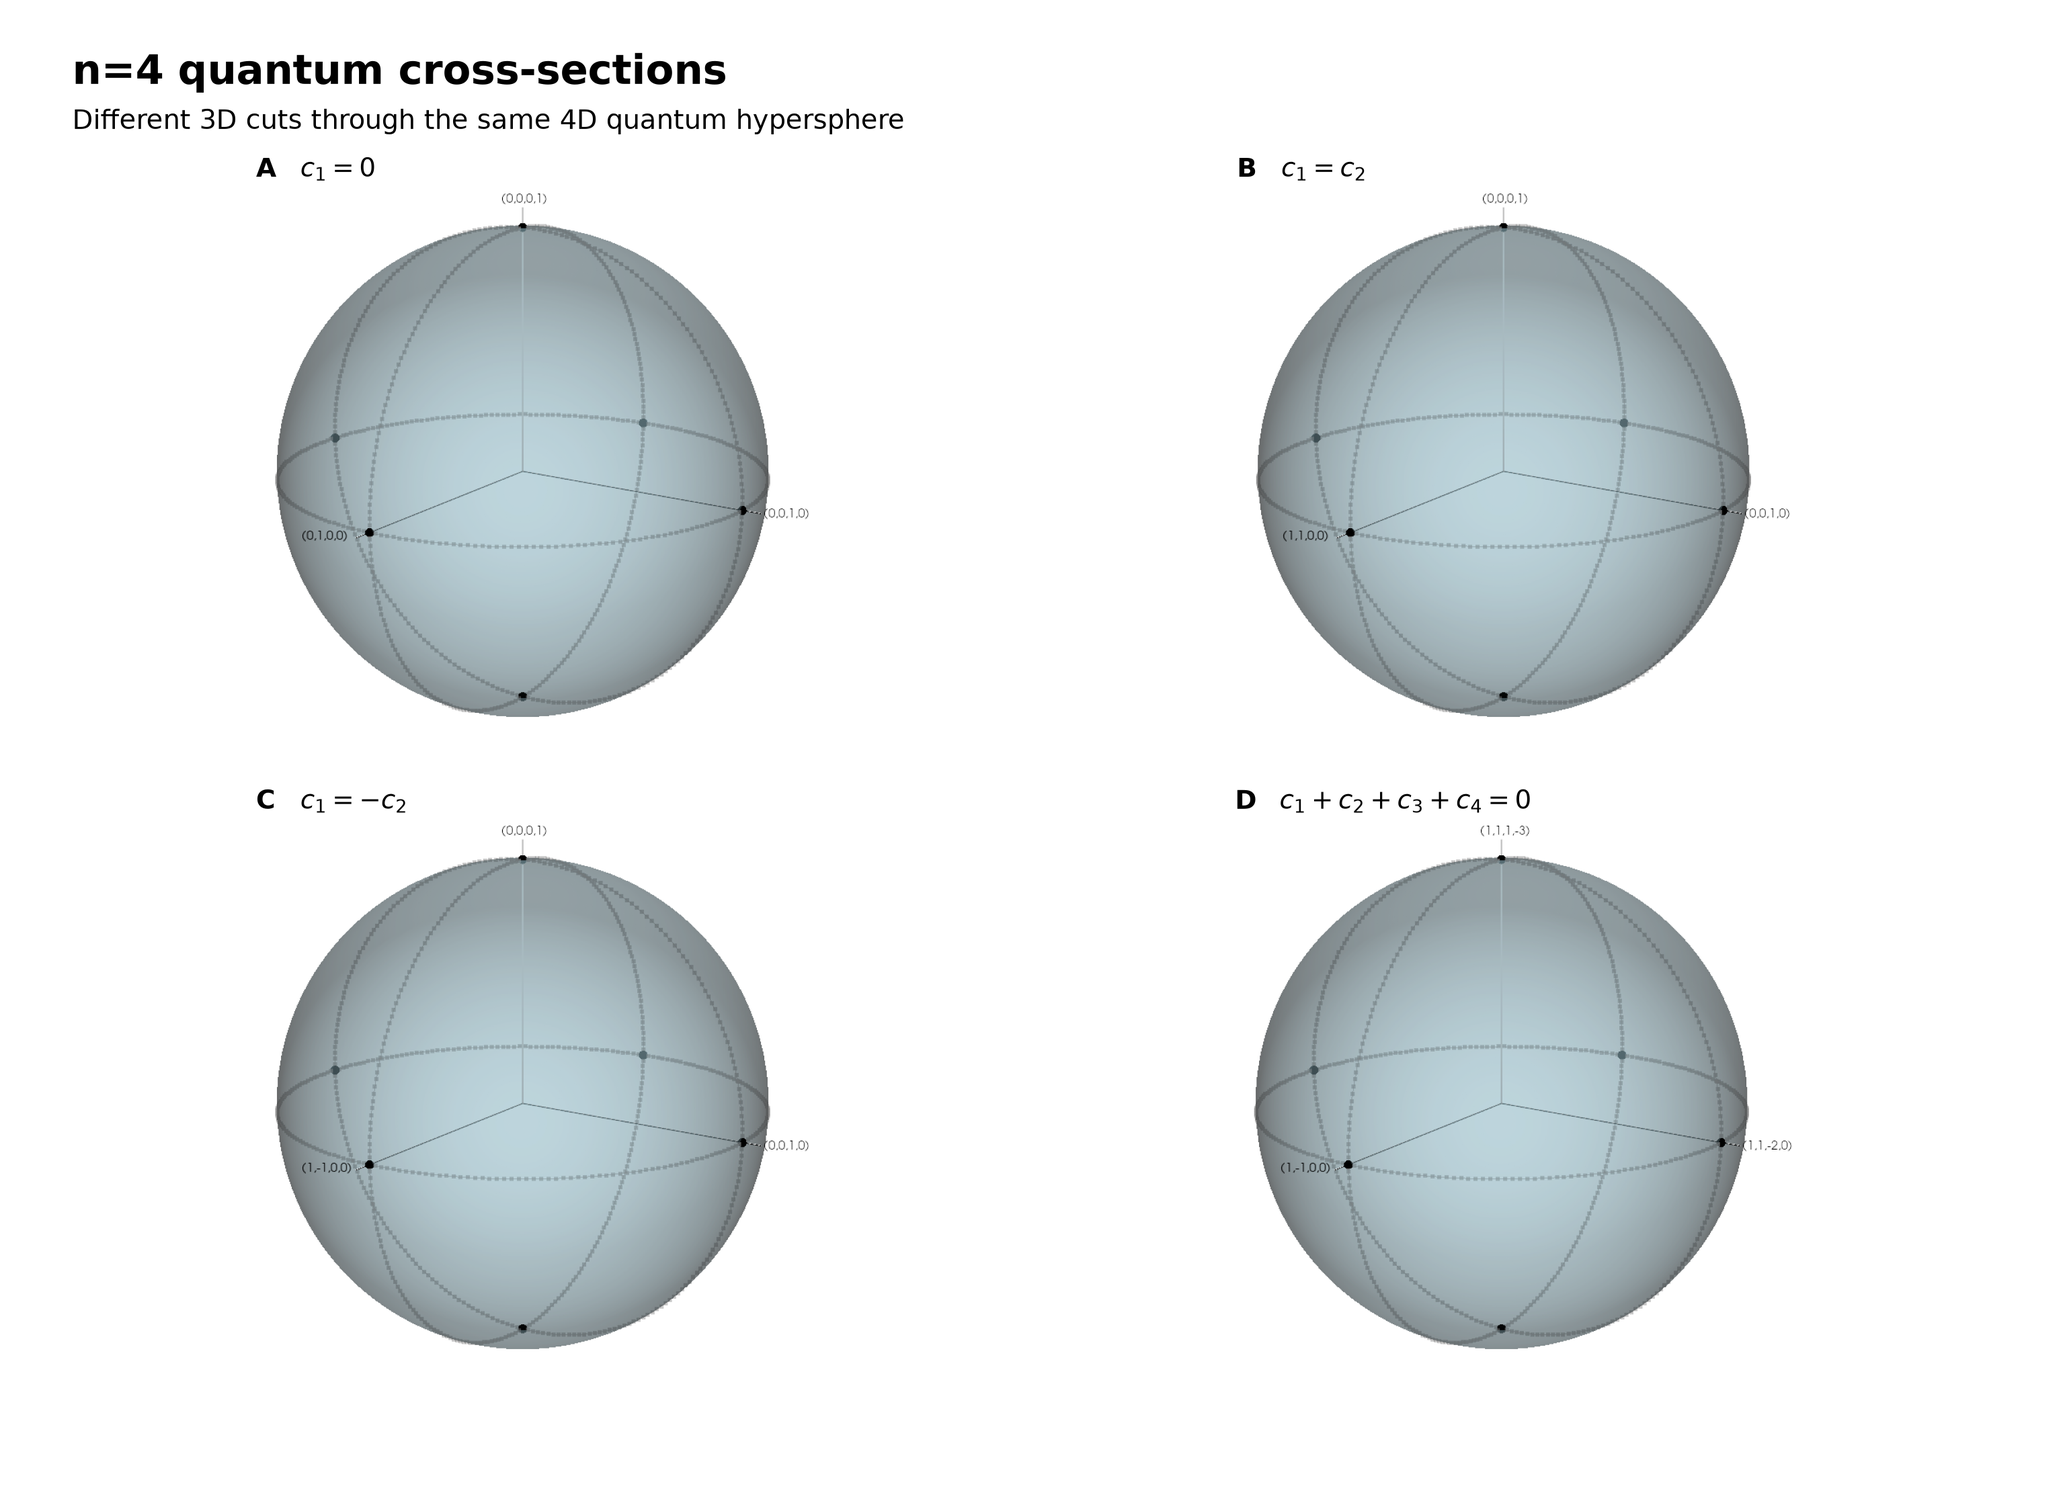
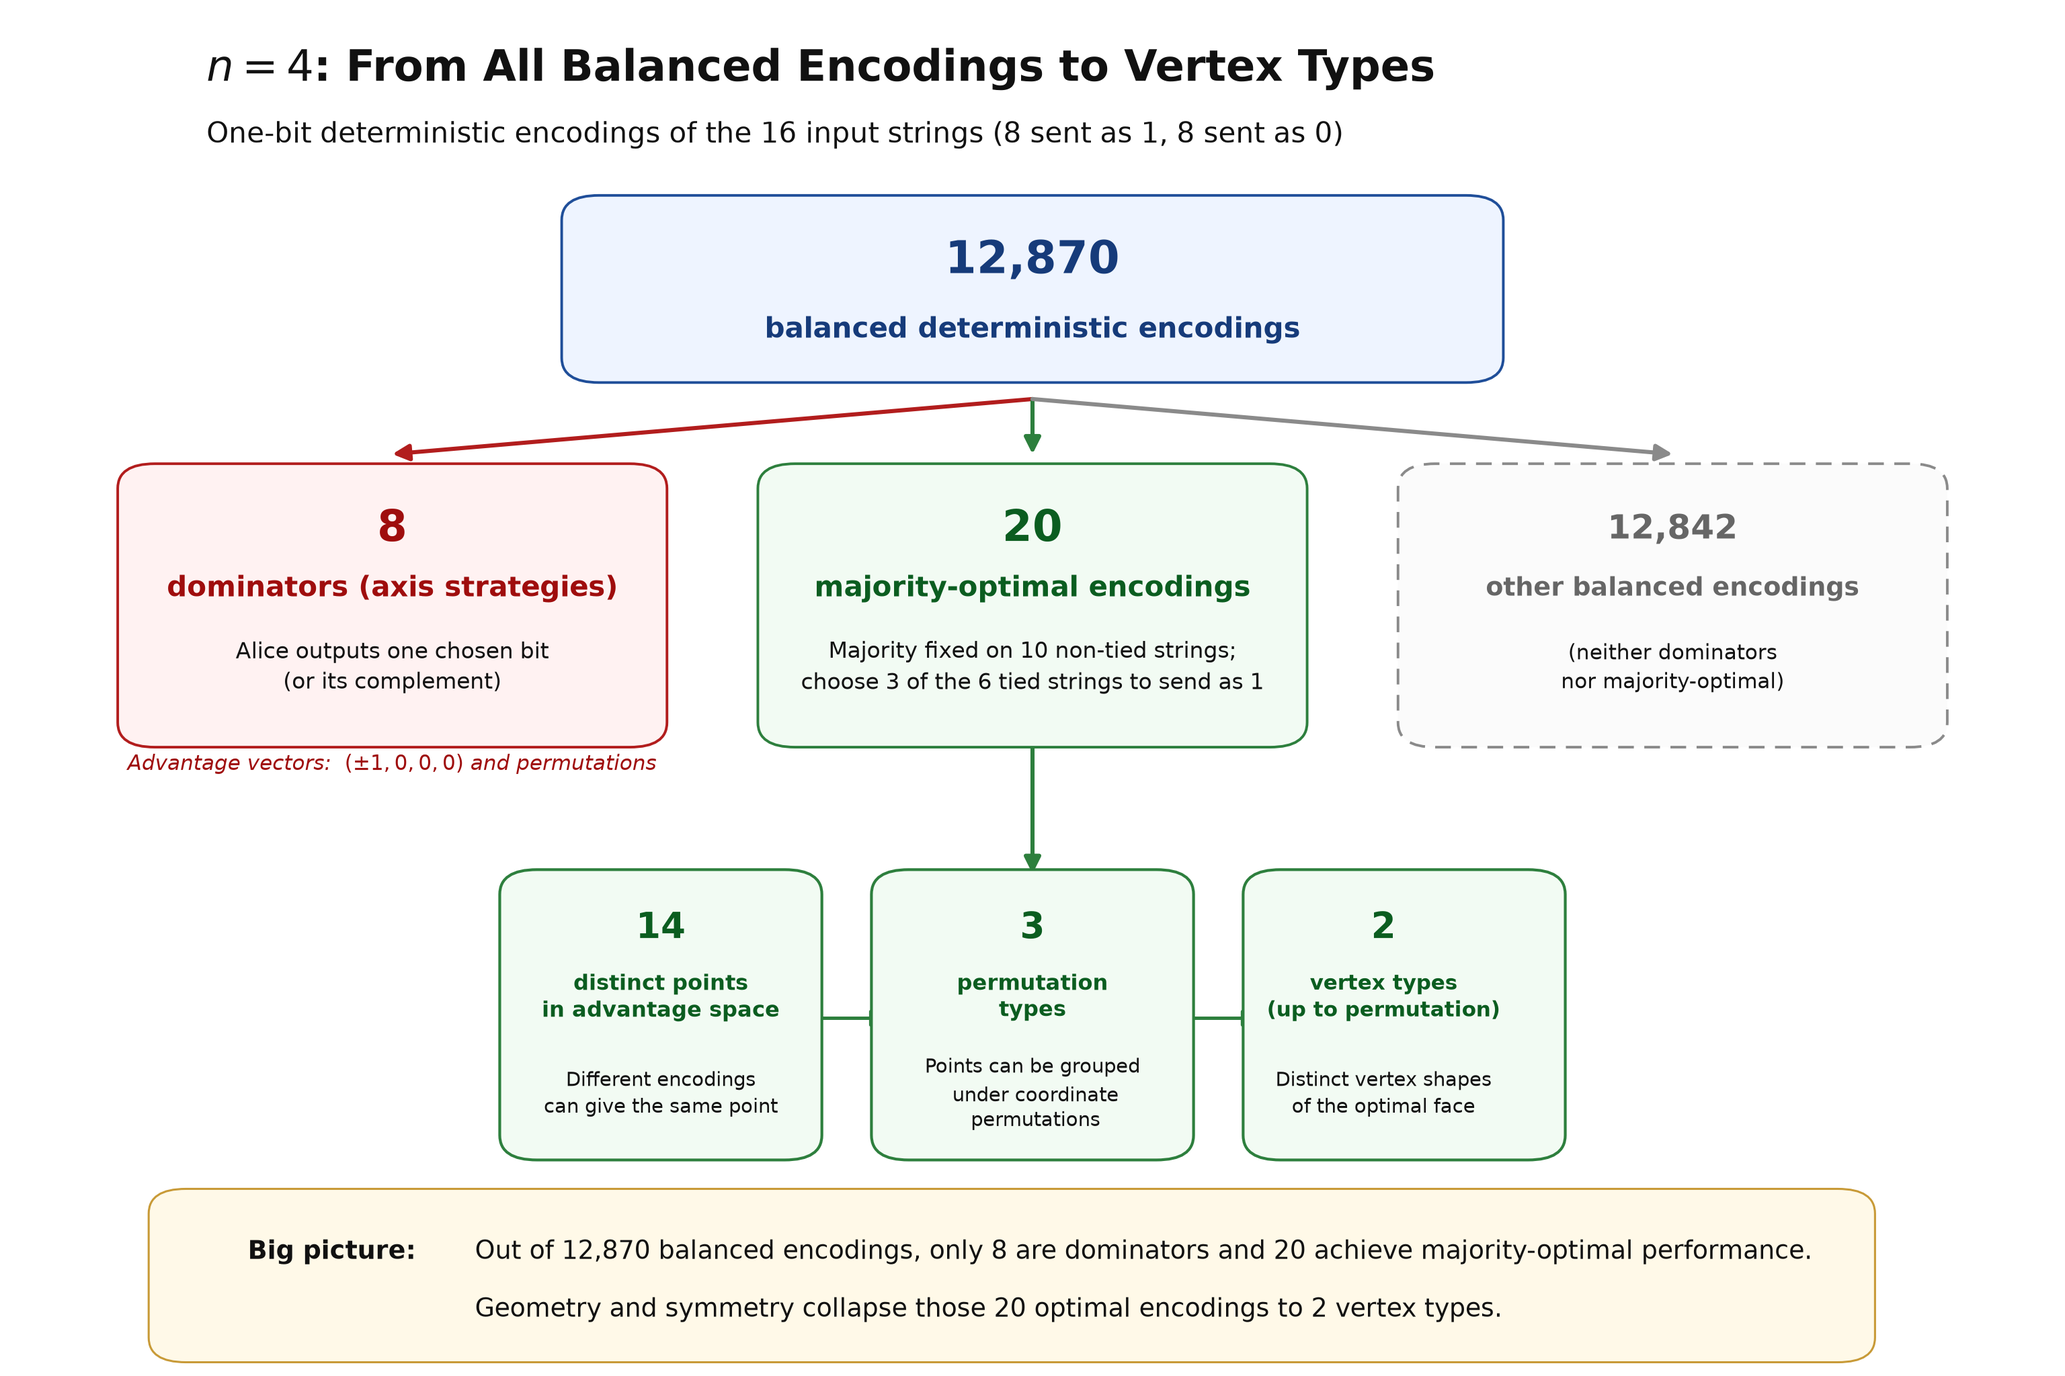
update

diff --git a/rac_balanced_encoding_flow_Figures_5_6.py b/rac_balanced_encoding_flow_Figures_5_6.py
@@ -1,11 +1,11 @@
 """
-Figures 6 and 7 — balanced deterministic encodings for n=4 and n=6
+Figures 5 and 6 — balanced deterministic encodings for n=4 and n=6
 ===================================================================
 
 Pure Matplotlib script. It creates:
 
-    Figure_6.png   n=4 flow
-    Figure_7.png   n=6 flow
+    Figure_5.png   n=4 flow
+    Figure_6.png   n=6 flow
 
 The layout follows the supplied flow-diagram concept:
 
@@ -58,8 +58,8 @@ from matplotlib.patches import FancyBboxPatch, FancyArrowPatch
 # ============================================================================
 
 HERE = Path(__file__).resolve().parent
-OUTPUT_4 = HERE / "Figure_6.png"
-OUTPUT_6 = HERE / "Figure_7.png"
+OUTPUT_4 = HERE / "Figure_5.png"
+OUTPUT_6 = HERE / "Figure_6.png"
 
 DPI = 200
 FIGSIZE = (15.36, 10.24)
@@ -445,7 +445,7 @@ def draw_compression_chain(ax, n, d):
     )
     ax.text(
         0.50, 0.205,
-        "Points grouped under\ncoordinate permutations",
+        "Points can be grouped\n under coordinate\n permutations",
         transform=ax.transAxes,
         ha="center", va="center",
         fontsize=10.6,
@@ -563,10 +563,10 @@ def draw_big_picture(ax, n, d):
         line1 = (
             rf"Out of $\sim 1.83\times10^{{18}}$ balanced encodings, "
             f"only {d['dominators']} are dominators and "
-            f"{fmt_int(d['majority_optimal'])} achieve majority-optimal performance."
+            f"{fmt_int(d['majority_optimal'])} achieve majority-optimal"
         )
         line2 = (
-            f"Geometry and symmetry collapse those optimal encodings to "
+            f"performance. Geometry and symmetry collapse those optimal encodings to "
             f"{d['vertex_types']} vertex types."
         )
 
@@ -588,10 +588,10 @@ def draw_big_picture(ax, n, d):
         color=BLACK,
     )
     ax.text(
-        0.49, 0.048,
+        0.23, 0.048,
         line2,
         transform=ax.transAxes,
-        ha="center", va="center",
+        ha="left", va="center",
         fontsize=BOTTOM_TEXT_SIZE,
         color=BLACK,
     )
@@ -611,7 +611,7 @@ def draw_flow(n, output):
     # Title
     ax.text(
         0.1, 0.965,
-        rf"$n={n}$: From All Balanced Encodings to the Key Families",
+        rf"$n={n}$: From All Balanced Encodings to Vertex Types",
         transform=ax.transAxes,
         ha="left", va="top",
         fontsize=TITLE_SIZE,

diff --git a/n4_rac_publication_figure_Fig3.py b/n4_rac_publication_figure_Fig3.py
@@ -509,9 +509,7 @@ def compose_figure(poly_image, axis_image, axes, normal, offset):
     normal_text = "(" + ", ".join(f"{x:g}" for x in SLICE_NORMAL) + ")"
     fig.text(
         SUBTITLE_POSITION[0], SUBTITLE_POSITION[1],
-        rf"A 3D cut through the 4D classical advantage-space polytope, "
-        rf"normal = {normal_text}, ",
-        #rf"offset = {SLICE_OFFSET:g}   ({slice_label(normal, offset)})",
+        rf"A 3D cut through the 4D classical advantage-space polytope: c₁ = 0",
         ha="left", va="top", fontsize=16.5,
     )
 

diff --git a/n3_rac_cross_sections_2panel_Figure_2.py b/n3_rac_cross_sections_2panel_Figure_2.py
@@ -468,7 +468,7 @@ def draw_panel(ax, letter, raw_normal, raw_offset):
     )
 
     # Small line listing the actual oriented basis.
-    basis_text = "In plane directions: " + "   ·   ".join(format_direction(v) for v in axis_vectors)
+    basis_text = "In-plane directions: " + "   ·   ".join(format_direction(v) for v in axis_vectors)
     ax.text(
         0.5, -0.02,
         basis_text,

diff --git a/n4_rac_publication_2x2_classical_and_quantum_Fig_4_7.py b/n4_rac_publication_2x2_classical_and_quantum_Fig_4_7.py
@@ -15,7 +15,7 @@ from scipy.spatial import ConvexHull
 
 BASE_SCRIPT = Path(__file__).with_name("n4_rac_cross_section_axis_inset_planar_edges.py")
 OUTPUT = Path(__file__).with_name("Figure_4.png")
-QUANTUM_OUTPUT = Path(__file__).with_name("Figure_5.png")
+QUANTUM_OUTPUT = Path(__file__).with_name("Figure_7.png")
 
 # Four slices to compare. Change these freely.
 SLICES = [

diff --git a/TheShapeofWhatYouCanKnow.md b/TheShapeofWhatYouCanKnow.md
@@ -2,7 +2,7 @@
 
 *A guessing game, an explosion of classical strategies, and the surprisingly simple shape that quantum mechanics leaves behind.*
 
-## (Q)SeaBattle Revisited
+## QSeaBattle Revisited
 <!-- key Goal: In the minimum possible space, make the game understandable to a new reader and remind returning readers of the setup. End by introducing the advantage coordinates cᵢ = 2Pᵢ − 1 and asking what all possible strategies look like when plotted in these coordinates.-->
 Alice and Bob are playing a peculiar version of SeaBattle. Alice sees a board containing *n* bits, while Bob is asked about one randomly chosen position. His job is simple: guess whether the bit at that position is 0 or 1. There is just one catch: Alice may send Bob one bit, and Bob does not get to tell her which position he will be asked about.
 
@@ -17,7 +17,7 @@ For two possible questions, that point lives on a page. For three, it lives in o
 
 Let us start with *n* = 3, where we can still see the whole strategy space. A strategy is now a point (*c₁*, *c₂*, *c₃*) in ordinary three-dimensional space. An axis strategy, for example, can put all the advantage on one question, giving a point such as (1, 0, 0). A majority strategy spreads the advantage equally over all three, giving (½, ½, ½). Flipping answers or exchanging the three indices generates the corresponding points in the other directions.
 
-These points are the extreme deterministic strategies, but Alice and Bob are not restricted to choosing just one of them. They can agree beforehand to randomly alternate between two strategies. If they use each half of the time, their resulting advantages are simply the average of the two points. Vary the mixing probability and every point on the line between them becomes reachable; mix more strategies and the regions between them fill in as well. The set of all classical strategies is therefore convex: its outer boundary is the many-faced object shown in Figure 1, a polytope.
+These points are the extreme deterministic strategies, but Alice and Bob are not restricted to choosing just one of them. They can agree beforehand to randomly alternate between two strategies. If they use each half of the time, their resulting advantages are simply the average of the two points. Vary the mixing probability and every point on the line between them becomes reachable; mix more strategies and the regions between them fill in as well. The set of all classical strategies is therefore convex: its outer boundary is the many-faced object we encountered in [a previous post](https://medium.com/@r.hendriks/f85c58257192), shown in Figure 1: a polytope known as a rhombic dodecahedron. 
 
 ![alt text](Figure_1.png)
 > *Figure 1: The classical strategy space for three possible questions. Each point represents the advantage Bob can achieve for the three possible indices. Despite the many deterministic strategies, the boundary has just two types of vertices: axis strategies (crimson) and majority strategies (dark orange).*
@@ -59,7 +59,7 @@ There is order hiding inside this complexity. Permuting the four indices does no
 And four dimensions are only the beginning. The real surprise comes when we ask how many different classical strategies are hiding behind these shapes — and what happens when *n* grows from 4 to 6.
 
 ## Where the Complexity Comes From
-<!-- Key goal: Explain that the complexity is generated by ties. For odd n there are no majority ties and the optimal structure is clean; for even n, many different tie choices remain equally optimal. Show the explosion from n = 4 to n = 6, then pose the counting/classification problem. -->
+<!-- Key goal: Explain that the complexity is generated by ties. For odd n there are no majority ties and the optimal structure is clean; for even *n*, many different tie choices remain equally optimal. Show the explosion from n = 4 to n = 6, then pose the counting/classification problem. -->
 
 Where do all those faces and vertices come from? The culprit is surprisingly simple: ties. When *n* is **odd**, a majority vote can never end in a draw. For every input, one value occurs more often than the other, so the corresponding majority encoding is fixed. This gives the optimal classical strategies their particularly clean structure, whose general form is known [2].
 
@@ -67,38 +67,38 @@ For **even** *n*, something different happens. Some inputs contain exactly as ma
 
 For *n* = 4 there are 16 possible input strings, six of which are tied. A balanced encoding sends eight strings as 0 and eight as 1, giving 12,870 possible balanced deterministic encodings. Among them are the eight simple axis strategies and 20 majority-optimal encodings. Those 20 optimal encodings do not all produce different geometries: they collapse to 14 distinct points in advantage space, then to just three classes under permutation symmetry, and finally to two vertex types.
 
-![alt text](Figure_6.png)
-> *Figure 5: For n = 4, 12,870 balanced deterministic encodings collapse to just two vertex types. The reduction happens in three steps: 1) different encodings can produce the same point in advantage space; 2) permutation symmetry over the indices makes some of the remaining points equivalent; and 3) points that are not vertices of the polytope can be discarded.*
+![alt text](Figure_5.png)
+> *Figure 5: For n = 4, there are 12,870 balanced deterministic encodings. Of these, 20 are majority-optimal. Those 20 collapse to 14 distinct points in advantage space (because different encodings can produce the same point), three classes under permutation symmetry, and finally two vertex types after discarding points that are not vertices.*
 > Alt text: A flow diagram for n = 4 deterministic strategies. It shows the reduction from 12,870 balanced encodings through majority-optimal encodings and distinct advantage-space points to progressively fewer symmetry classes. The final result is 2 vertex types.
 
 At *n* = 6, the same mechanism explodes. There are now 64 possible input strings and 20 ties. The number of balanced encodings exceeds 1.8 × 10¹⁸, while choosing how to resolve just the ties already produces 184,756 majority-optimal encodings. Yet geometry and symmetry compress that enormous collection to 4,733 distinct points in advantage space, 41 classes under permutation, and ultimately six vertex types.
 
-![alt text](Figure_7.png)
+![alt text](Figure_6.png)
 > *Figure 6: The classical complexity grows fast. For n = 6, the number of balanced deterministic encodings exceeds 1.8 × 10¹⁸, with 184,756 majority-optimal encodings alone. The same geometric and symmetry reductions eventually leave just six vertex types — but finding and classifying them is already a substantial combinatorial problem.*
 > Alt text: A flow diagram for n = 6 deterministic strategies. It shows the reduction from more than 1.8 × 10¹⁸ balanced encodings through 184,756 majority-optimal encodings and distinct advantage-space points to progressively fewer symmetry classes. The final result is 6 vertex types.
 
-For odd *n*, the optimal classical strategies have a clean structure, and their number is known [2]. For even *n*, ties create a much richer family of equally optimal encodings. The optimality condition is known [2], but the resulting geometry is not classified in the same simple way. What is the general classification of the distinct optimal points — and in particular the vertices — that can be reached for even n?
+For odd *n*, the optimal classical strategies have a clean structure, and their number is known [2]. For even *n*, ties create a much richer family of equally optimal encodings. The optimality condition is known [2], but the resulting geometry is not classified in the same simple way. What is the general classification of the distinct optimal points — and in particular the vertices — that can be reached for even *n*?
 
 For an ambitious undergraduate mathematics student, this could make a beautiful problem: part combinatorics, part convex geometry, and easy to explore computationally for small *n*. Find the right general pattern and prove it, and there may even be the seed of a paper here.
 
-> ** This could make a beautiful problem: part combinatorics, part convex geometry. Find the right general pattern and prove it, and there may even be the seed of a paper here.**
+> **This could make a beautiful problem: part combinatorics, part convex geometry. Find the right general pattern and prove it, and there may even be the seed of a paper here.**
 
 ## And Then We Add Quantum Mechanics
 <!-- Key goal: Deliver the reversal promised by the title. We expect quantum resources to add another layer of complexity. Instead, the complicated classical geometry becomes a hypersphere. End by asking why nature chooses this remarkably simple boundary — and what might lie beyond it. -->
 
 After all that classical complexity, we might expect quantum mechanics to make matters worse. More resources, more possible strategies, more complicated geometry. Instead, something remarkable happens. Give Alice and Bob the quantum resources from our earlier game, and the irregular polytope gives way to a sphere. The four very different classical cross-sections in Figure 4 become the four identical spherical cross-sections in Figure 7.
 
-![alt text](Figure_5.png)
-> *Figure 7: Now add the quantum resource. These are the same four cross-sections as in Figure 4. The complicated classical polyhedra are gone: every cut is a sphere. Instead of making the strategy space more complicated, quantum mechanics makes its geometry remarkably simple.*
+![alt text](Figure_7.png)
+> *Figure 7: Now add the quantum resource. These are the same four cross-sections as in Figure 4. The complicated classical polyhedra are gone: for every cut teh reachable region is bounded by a sphere. Instead of making the strategy space more complicated, quantum mechanics makes its geometry remarkably simple.*
 > Alt text: Four matching cross-sections of the n = 4 quantum advantage space. Unlike the different classical polyhedra in Figure 4, all four are identical translucent blue spheres with great circles and labeled in-plane directions.
 
-Pawłowski and Żukowski showed how the basic quantum guessing strategy can be concatenated to build larger random-access codes, reaching the symmetric advantage $cᵢ$ = 1/√$n$ [3]. Here we take the geometric viewpoint one step further. Rather than looking only at that symmetric point, we allow the individual advantages to trade against one another. In advantage space, those trade-offs trace the remarkably simple boundary shown in Figure 7:
+Pawłowski and Żukowski showed how the basic quantum guessing strategy can be concatenated to build larger random-access codes, reaching the symmetric advantage *cᵢ* = 1/√*n* [3]. Here we take the geometric viewpoint one step further. Rather than looking only at that symmetric point, we allow the individual advantages to trade against one another. In advantage space, those trade-offs trace the remarkably simple boundary shown in Figure 7:
 
-$c₁$² + $c₂$² + ⋯ + $cₙ$² = 1,
+*c₁*² + *c₂*² + ⋯ + *cₙ*² = 1.
 
-So the point $cᵢ$ = 1/√$n$ is just one special point on a much larger object: the point where the diagonal $c₁$ = $c₂$ = ⋯ = $cₙ$ meets the sphere. Move away from that diagonal and Alice and Bob can gain advantage on one question at the expense of another, while remaining on the same smooth boundary. We added quantum mechanics — and the geometry became simpler, not more complicated.
+So the point *cᵢ* = 1/√*n* is just one special point on a much larger object: the point where the diagonal *c₁* = *c₂* = ⋯ = *cₙ* meets the sphere. Move away from that diagonal and Alice and Bob can gain advantage on one question at the expense of another, while remaining on the same smooth boundary. We added quantum mechanics — and the geometry became simpler, not more complicated.
 
-> ** We added quantum mechanics — and the geometry became simpler, not more complicated.**
+> **We added quantum mechanics — and the geometry became simpler, not more complicated.**
 
 There is something almost suspiciously neat about this. An enormous collection of classical strategies produces a many-faced polytope whose structure rapidly becomes difficult to classify, while the quantum resource replaces it with one of the simplest and most symmetric objects in geometry. The complexity has not merely been reduced; much of its combinatorial character has disappeared.
 
